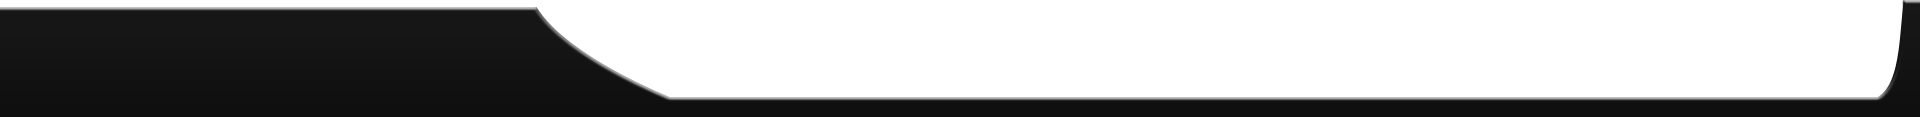
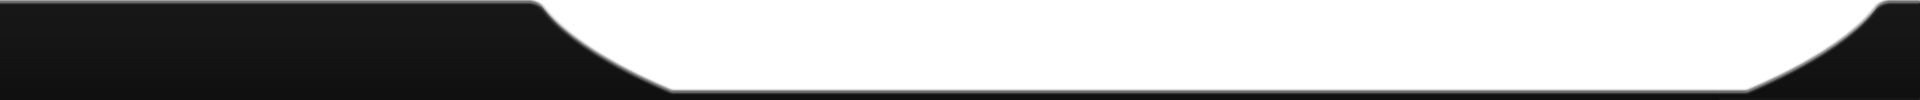
Replaced bottom bar images

Changed region(s): [[0.3125, 0.0, 1.0, 0.96], [0.0, 0.0, 0.2812, 0.09], [0.2812, 0.09, 0.3125, 0.48]]

diff --git a/MediaPortal/Incubator/Reflexion/Skin/Reflexion/screens/master_bare.xaml b/MediaPortal/Incubator/Reflexion/Skin/Reflexion/screens/master_bare.xaml
@@ -91,7 +91,7 @@ Parameters which have to be accessible by a DynamicResource lookup:
     <!--  Background="{ThemeResource FooterPanelBackgroundBrush}" -->
     <Grid x:Name="FooterPanel" DockPanel.Dock="Bottom">
       <Grid.RowDefinitions>
-        <RowDefinition Height="110"/>
+        <RowDefinition Height="100"/>
       </Grid.RowDefinitions>
       <Grid.ColumnDefinitions>
         <ColumnDefinition Width="100"/>        <!-- Connection/Notifiction -->
